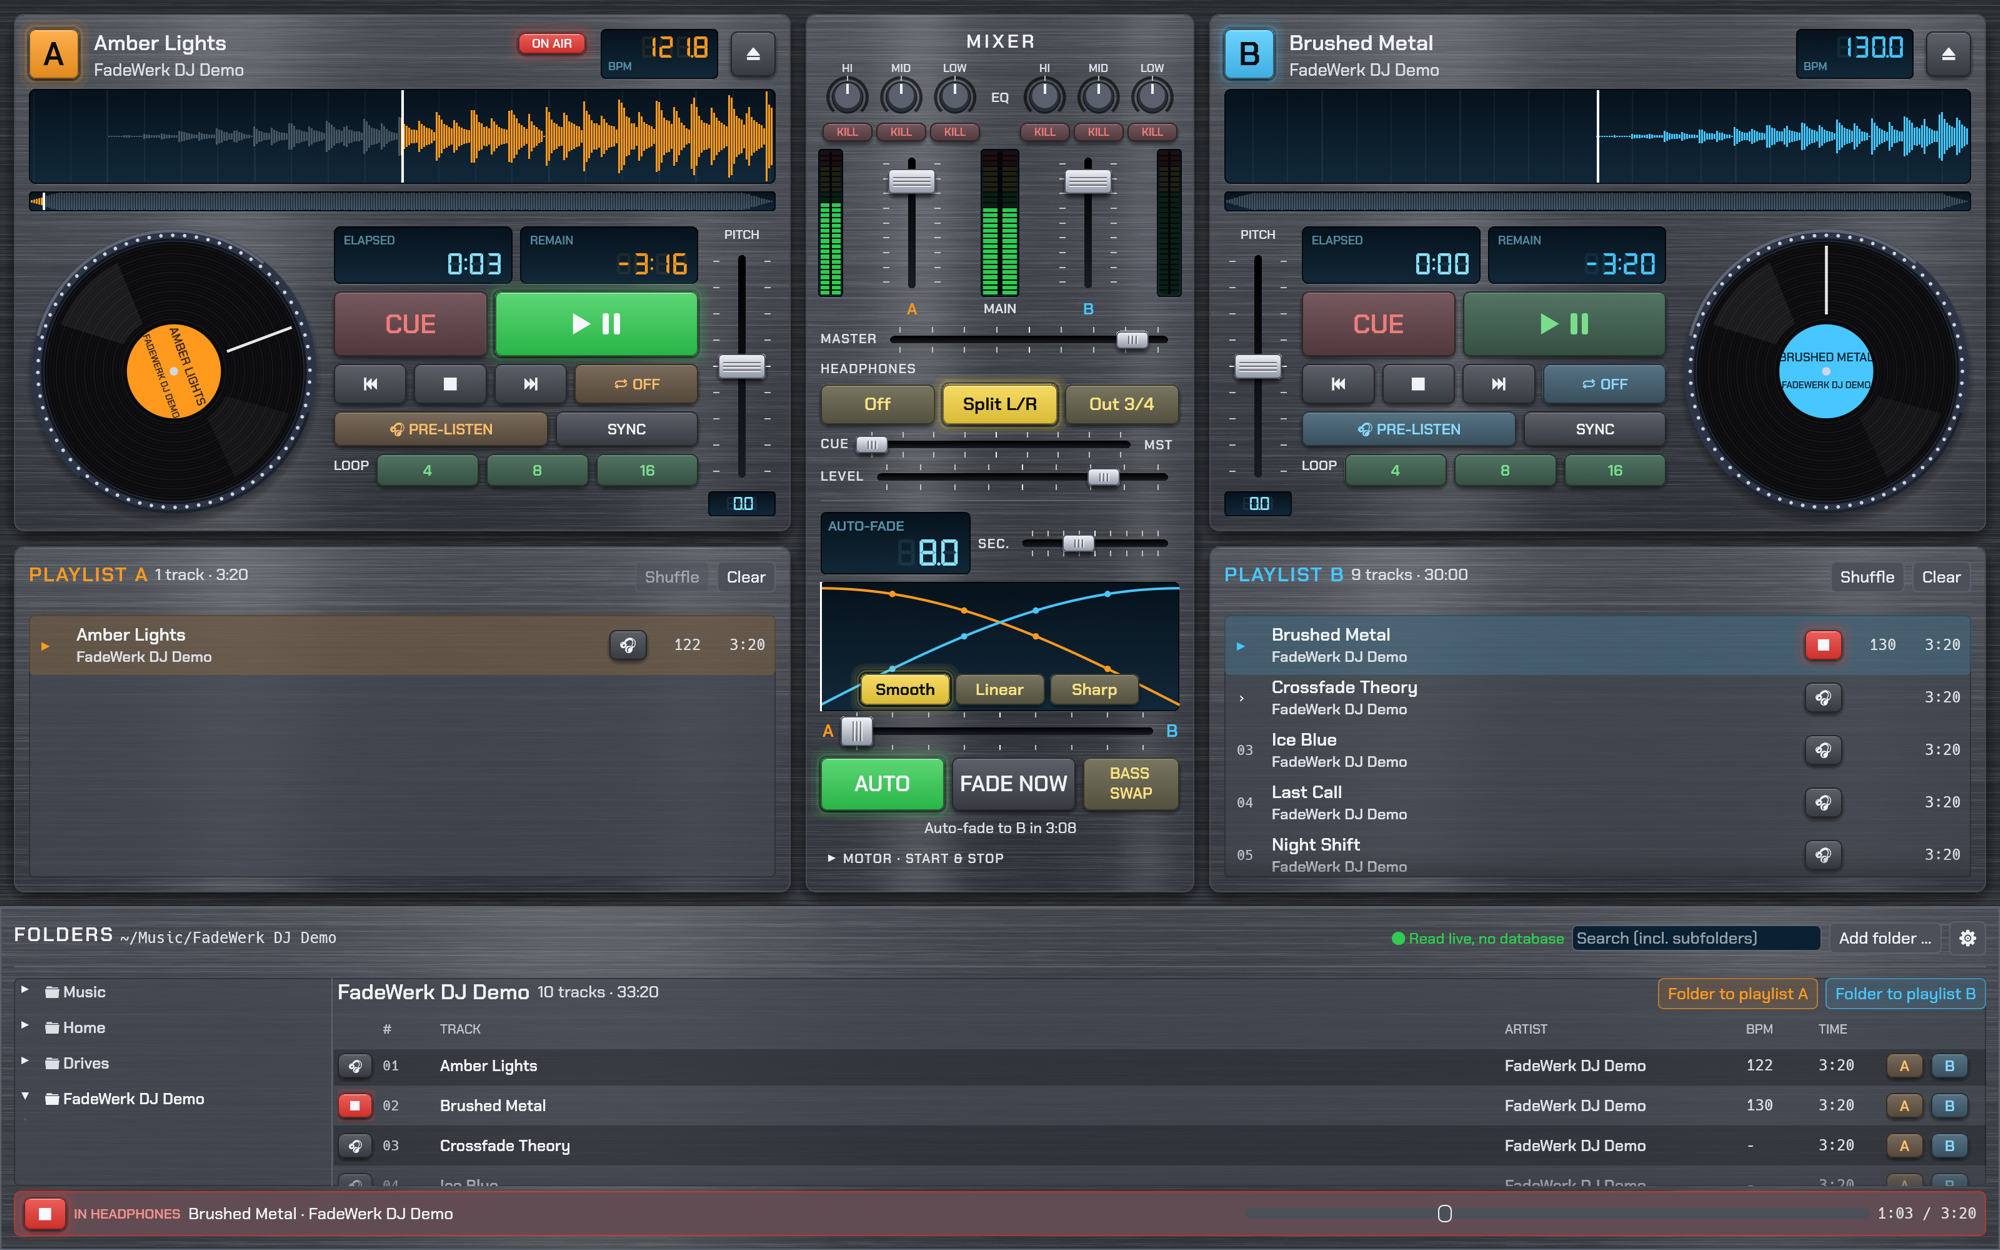
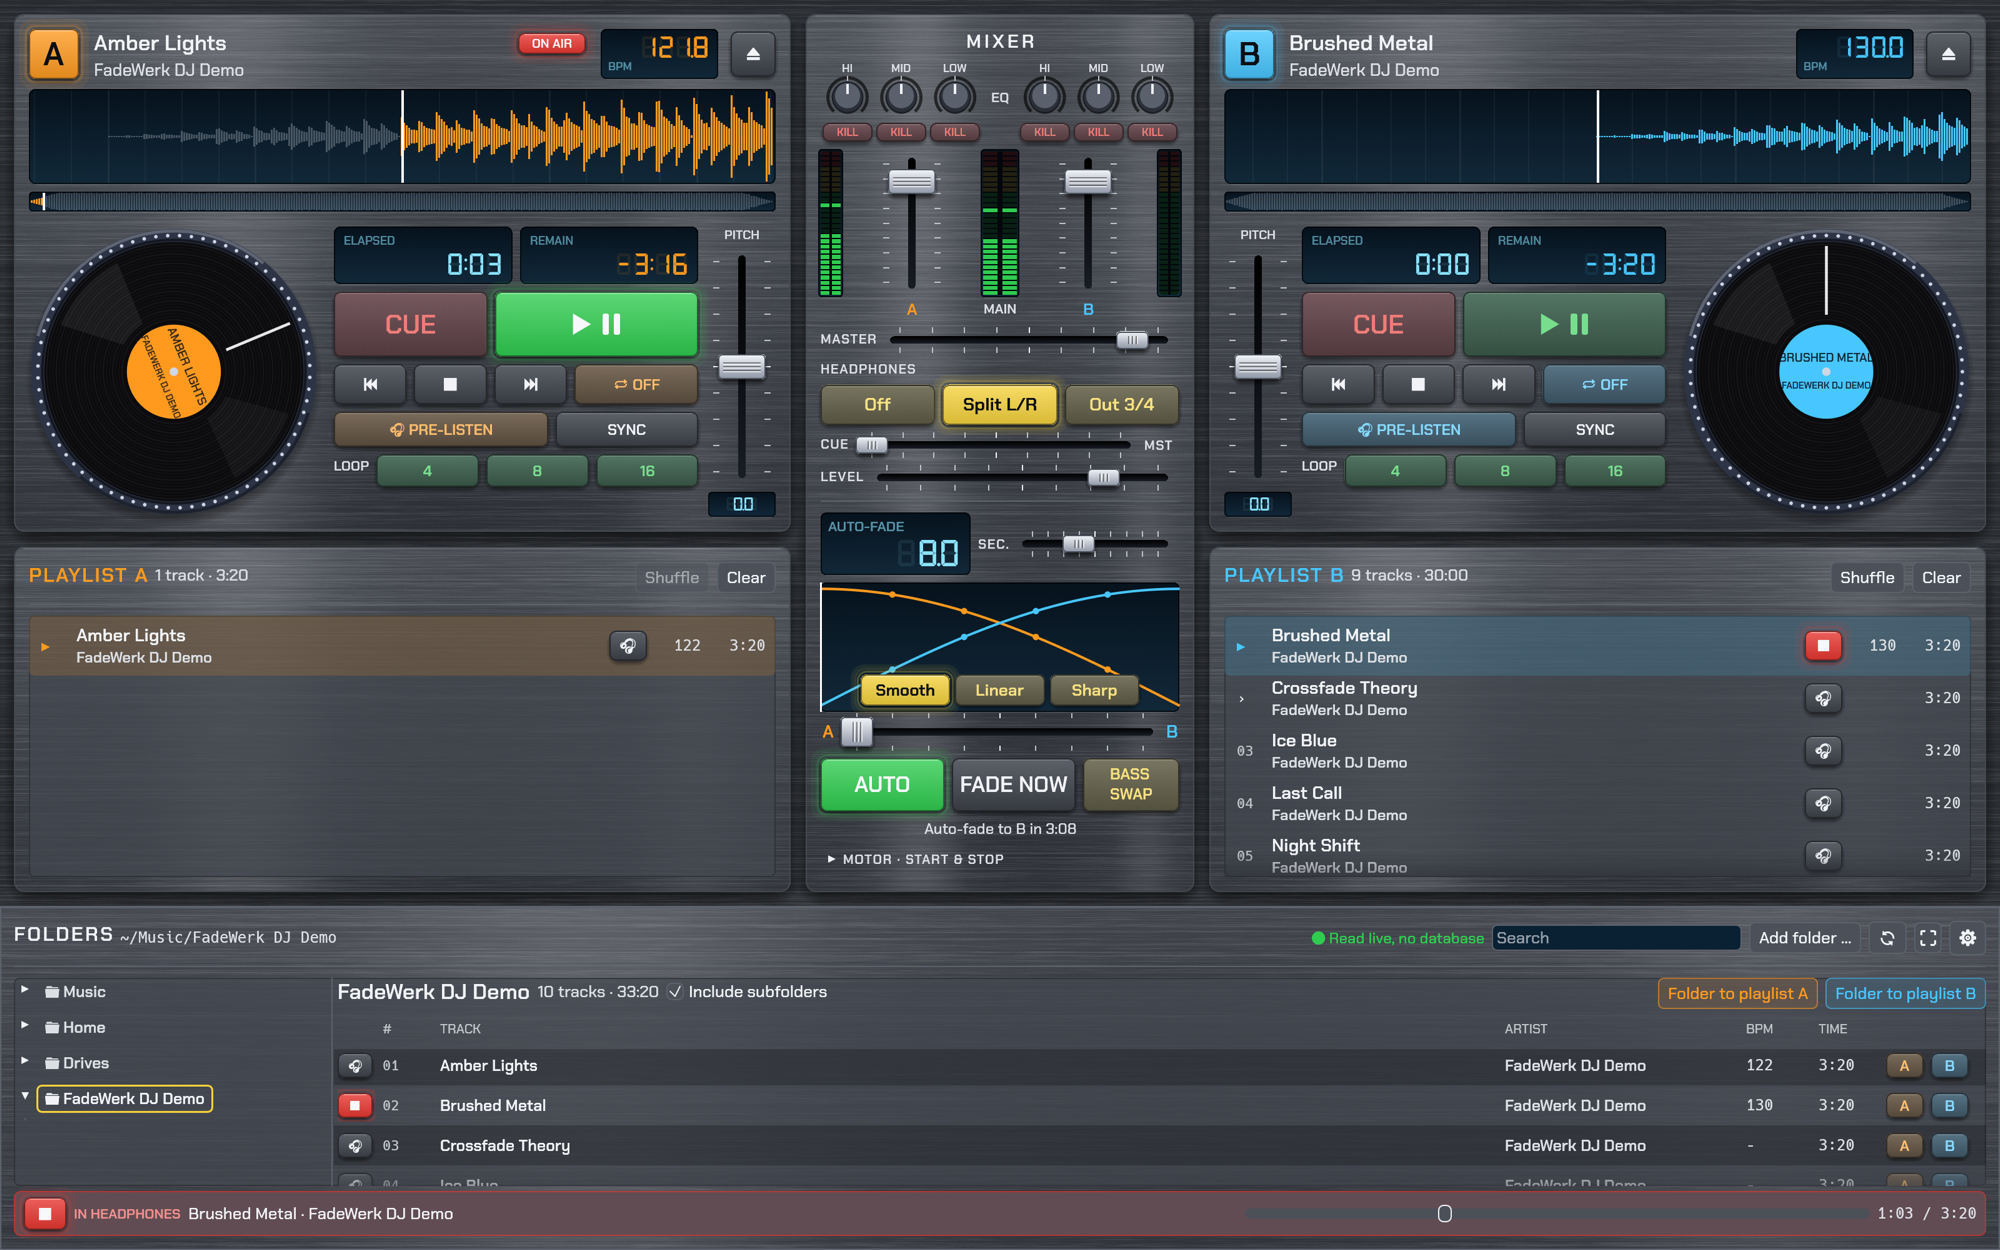
Vollbild auf allen Systemen, Screenshots aktualisiert
Taste im Ordnerbrowser, F11 (macOS zusätzlich ⌃⌘F). Der Zustand wird
gespeichert, auch wenn er über die Fenstertaste des Systems wechselt.

diff --git a/app/src/app.rs b/app/src/app.rs
@@ -127,6 +127,8 @@ pub struct FadeWerkDjApp {
     settings_ui: SettingsUi,
     tag_editor: Option<TagEditor>,
     save_due: Option<f64>,
+    /// Vollbild beim nächsten Bild umschalten (Taste im Browser).
+    toggle_fullscreen: bool,
     /// Einstellungen und Playlists speichern? Bei Entwicklerläufen nicht.
     persist: bool,
     session_saved: u64,
@@ -180,12 +182,16 @@ impl FadeWerkDjApp {
             settings_ui: SettingsUi::default(),
             tag_editor: None,
             save_due: None,
+            toggle_fullscreen: false,
             persist: true,
             session_saved: 0,
             session_checked: 0.0,
             last_heights: (0.0, 0.0),
         };
         app.persist = !app.dev.isolated();
+        if app.persist && app.settings.fullscreen {
+            cc.egui_ctx.send_viewport_cmd(egui::ViewportCommand::Fullscreen(true));
+        }
         if app.persist {
             // Playlists vom letzten Mal wiederherstellen und die geladenen Titel wieder in die Player legen
             let (lists, missing) = crate::session::load();
@@ -990,6 +996,7 @@ impl FadeWerkDjApp {
                 self.save_settings();
             }
             BrowserAction::OpenSettings => self.settings_ui.toggle(),
+            BrowserAction::ToggleFullscreen => self.toggle_fullscreen = true,
         }
     }
 }
@@ -1054,6 +1061,7 @@ impl eframe::App for FadeWerkDjApp {
             preview_pos: preview_st.position_secs(),
             preview_dur: preview_st.duration_secs(),
             deck_playing: [self.ctl.shared.decks[0].is_playing(), self.ctl.shared.decks[1].is_playing()],
+            fullscreen: ctx.input(|i| i.viewport().fullscreen.unwrap_or(false)),
         };
         // Höhe merken; ohne gespeicherten Wert 240 pt, auf hohen Monitoren mehr (bei 1400 pt Höhe etwa 450)
         let browser_h = if self.settings.browser_height > 0.0 {
@@ -1229,6 +1237,23 @@ impl eframe::App for FadeWerkDjApp {
                     });
                 });
             }
+        }
+
+        // Vollbild: F11 überall, auf macOS zusätzlich ⌃⌘F (wie die grüne Fenstertaste)
+        let fs_key = ctx.input_mut(|i| {
+            i.consume_key(egui::Modifiers::NONE, egui::Key::F11)
+                || (cfg!(target_os = "macos") && i.consume_key(egui::Modifiers::CTRL | egui::Modifiers::MAC_CMD, egui::Key::F))
+        });
+        let fullscreen = ctx.input(|i| i.viewport().fullscreen);
+        if fs_key || std::mem::take(&mut self.toggle_fullscreen) {
+            ctx.send_viewport_cmd(egui::ViewportCommand::Fullscreen(!fullscreen.unwrap_or(false)));
+        }
+        // Zustand merken, auch wenn er über die Fenstertaste des Systems wechselt
+        if let Some(fs) = fullscreen
+            && fs != self.settings.fullscreen
+        {
+            self.settings.fullscreen = fs;
+            self.save_due = Some(now + 1.0);
         }
 
         // Einstellungen: ⌘, (macOS) bzw. Strg+,

diff --git a/app/src/browser.rs b/app/src/browser.rs
@@ -42,6 +42,7 @@ pub enum BrowserAction {
     AddRoot,
     RemoveRoot(PathBuf),
     OpenSettings,
+    ToggleFullscreen,
 }
 
 pub struct BrowserCtx<'a> {
@@ -52,6 +53,8 @@ pub struct BrowserCtx<'a> {
     pub preview_dur: f64,
     /// Spielt Player A bzw. B gerade? Dann lässt er sich nicht neu laden.
     pub deck_playing: [bool; 2],
+    /// Läuft das Fenster im Vollbild?
+    pub fullscreen: bool,
 }
 
 /// Was ein Ordner-Kontextmenü mit allen Titeln der ausgewählten Ordner macht. Läuft die Suche
@@ -333,6 +336,9 @@ impl Browser {
             ui.with_layout(egui::Layout::right_to_left(egui::Align::Center), |ui| {
                 if ui.button(RichText::new("⚙").size(15.0)).on_hover_text(tr("Einstellungen (⌘,)")).clicked() {
                     out.push(BrowserAction::OpenSettings);
+                }
+                if fullscreen_button(ui, ctx.fullscreen).clicked() {
+                    out.push(BrowserAction::ToggleFullscreen);
                 }
                 let tip = if cfg!(target_os = "macos") { tr("Ordner neu einlesen (⌘R)") } else { tr("Ordner neu einlesen (F5)") };
                 if ui.button(RichText::new("🔄").size(14.0)).on_hover_text(tip).clicked() {
@@ -917,4 +923,31 @@ mod tests {
             assert!(default_recursive(Path::new("/media/dj/STICK/Musik")));
         }
     }
+}
+
+/// Taste für das Vollbild: vier Ecken, die nach außen (Vollbild an) oder innen (Vollbild aus) zeigen.
+/// Selbst gezeichnet, weil die Schriften kein passendes Zeichen haben.
+fn fullscreen_button(ui: &mut egui::Ui, fullscreen: bool) -> egui::Response {
+    let tip = match (fullscreen, cfg!(target_os = "macos")) {
+        (false, true) => tr("Vollbild (⌃⌘F)"),
+        (false, false) => tr("Vollbild (F11)"),
+        (true, true) => tr("Vollbild beenden (⌃⌘F)"),
+        (true, false) => tr("Vollbild beenden (F11)"),
+    };
+    let h = ui.spacing().interact_size.y;
+    let resp = ui.add(egui::Button::new("").min_size(egui::vec2(h + 4.0, h))).on_hover_text(tip);
+    let color = ui.style().interact(&resp).fg_stroke.color;
+    let stroke = egui::Stroke::new(1.6, color);
+    let c = resp.rect.center();
+    let (r, l) = (5.5, 3.5);
+    for (sx, sy) in [(-1.0, -1.0), (1.0, -1.0), (-1.0, 1.0), (1.0, 1.0)] {
+        let corner = c + egui::vec2(sx * r, sy * r);
+        // Vollbild an: Ecken zeigen nach außen; aus: der Winkel sitzt innen und zeigt zur Mitte
+        let (dx, dy) = if fullscreen { (sx * l, sy * l) } else { (-sx * l, -sy * l) };
+        let vertex = if fullscreen { corner - egui::vec2(sx * l, sy * l) } else { corner };
+        let p = ui.painter();
+        p.line_segment([vertex, vertex + egui::vec2(dx, 0.0)], stroke);
+        p.line_segment([vertex, vertex + egui::vec2(0.0, dy)], stroke);
+    }
+    resp
 }

diff --git a/app/src/i18n.rs b/app/src/i18n.rs
@@ -247,6 +247,10 @@ fn en(de: &str) -> Option<&'static str> {
         // Einstellungen
         "Einstellungen" => "Settings",
         "Einstellungen (⌘,)" => "Settings (⌘,)",
+        "Vollbild (⌃⌘F)" => "Full screen (⌃⌘F)",
+        "Vollbild (F11)" => "Full screen (F11)",
+        "Vollbild beenden (⌃⌘F)" => "Exit full screen (⌃⌘F)",
+        "Vollbild beenden (F11)" => "Exit full screen (F11)",
         "Audio" => "Audio",
         "Sprache" => "Language",
         "Aussehen" => "Appearance",

diff --git a/app/src/settings.rs b/app/src/settings.rs
@@ -57,6 +57,8 @@ pub struct Settings {
     pub bass_swap: bool,
     /// Vom Nutzer hinzugefügte Musikordner.
     pub folders: Vec<PathBuf>,
+    /// Fenster beim Start im Vollbild öffnen (zuletzt so verlassen).
+    pub fullscreen: bool,
 }
 
 impl Default for Settings {
@@ -83,6 +85,7 @@ impl Default for Settings {
             eq_db: [[0.0; 3]; 2],
             bass_swap: false,
             folders: Vec::new(),
+            fullscreen: false,
         }
     }
 }

diff --git a/README.md b/README.md
@@ -38,7 +38,8 @@ written in Rust. Click a folder and start playing: no database, no library impor
 - **Playlists**: fill and reorder by drag & drop, also between A and B; drop tracks straight onto
   a deck. Playlists and settings are kept when you quit.
 - **Skins** Night, Classic, Day and Neon, optionally with a brushed steel look.
-  The layout adapts to the window size, including 4K monitors.
+  The layout adapts to the window size, including 4K monitors. **Full screen** via the button
+  in the folder browser, F11 or ⌃⌘F on macOS.
 - User interface in **English and German**.
 
 ## Download
